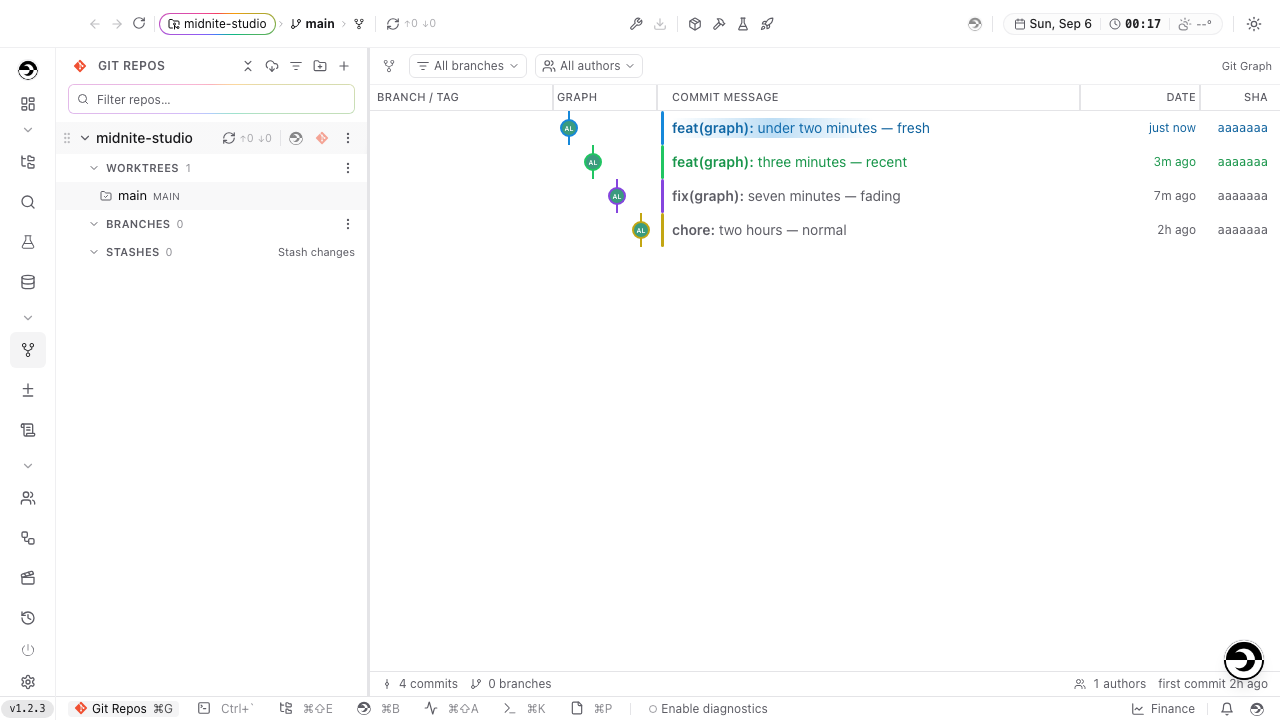
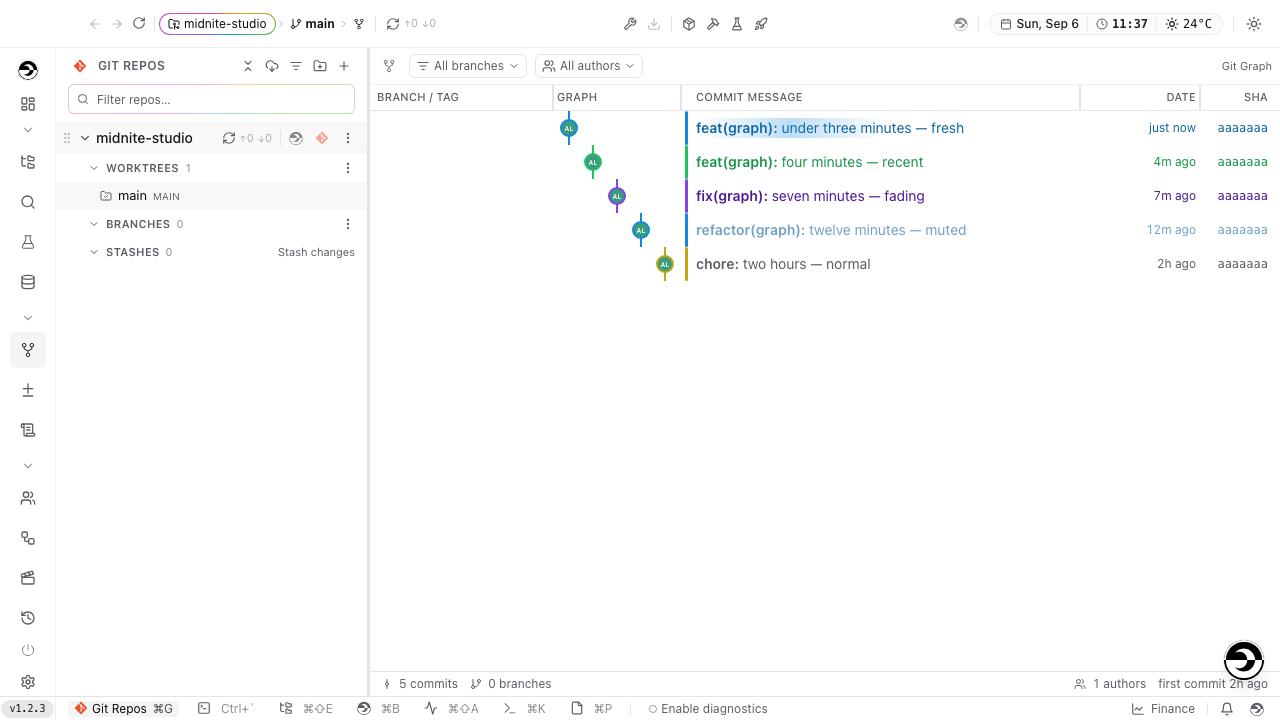
test(app): rewrite graph-recency e2e for the five-tier decay
Five tiers instead of four: adds 'muted' (10-15m), moves the first
boundary to 3 minutes, and reassigns 'muted' to share 'fresh'\'s lane
hue so the attenuation (same hue, different intensity) can be asserted
directly rather than only inferred. Updates the row-glow assertion to
match 'fading' losing that layer instead of the lane tint, and re-shoots
both screenshots for the new five-row layout.

Claude-Session: https://claude.ai/code/session_01GRCLb2AAyG95bBnkivMhDV

diff --git a/packages/app/e2e/graph-recency.spec.ts b/packages/app/e2e/graph-recency.spec.ts
@@ -4,14 +4,14 @@ import { fixtures } from './fixtures';
 import { installMockBridge, type MockFixtures } from './mock-bridge';
 
 /**
- * A commit fading out of "just landed" across four tiers.
+ * A commit fading out of "just landed" across five tiers.
  *
  * `graph-row.test.ts` pins the tier boundaries and `graph-row-highlight.test.tsx`
  * pins which classes each tier puts on the row; neither can say whether the
  * stylesheet then paints anything, because every rule here resolves
  * `--lane-h/s/l` at computed-style time and jsdom loads no stylesheet at all.
  * That is what this file is for — plus the shot at the end, which is the only
- * thing that can say the four tiers actually look different from one another.
+ * thing that can say the five tiers actually look different from one another.
  */
 const OUT = '../../docs/screenshots/adhoc-commit-recency-tiers';
 
@@ -19,28 +19,40 @@ const sha = (i: number) => `${i}`.padStart(40, 'a');
 
 /**
  * Ages chosen mid-band, not on a boundary: the ticker in `graph-view.tsx`
- * re-reads the clock every 5 seconds, so a commit parked at exactly 120s would
- * change tier partway through the run.
+ * re-reads the clock every 5 seconds, so a commit parked at exactly a
+ * boundary would change tier partway through the run.
  */
 const TIERS = [
-  { key: 'fresh', secondsAgo: 45, subject: 'feat(graph): under two minutes — fresh' },
-  { key: 'recent', secondsAgo: 210, subject: 'feat(graph): three minutes — recent' },
+  { key: 'fresh', secondsAgo: 45, subject: 'feat(graph): under three minutes — fresh' },
+  { key: 'recent', secondsAgo: 240, subject: 'feat(graph): four minutes — recent' },
   { key: 'fading', secondsAgo: 420, subject: 'fix(graph): seven minutes — fading' },
+  { key: 'muted', secondsAgo: 720, subject: 'refactor(graph): twelve minutes — muted' },
   { key: 'normal', secondsAgo: 7200, subject: 'chore: two hours — normal' },
 ] as const;
 
 /**
- * One lane per row, so each tier gets a different hue and the shot shows the
- * effect naming the branch rather than one generic "new commit" colour.
+ * Every tier gets its own lane *position*, so the shot lays them out one per
+ * row. Hue (`colorIdx`) is separate: 'muted' deliberately reuses 'fresh'\'s so
+ * a test can compare the muted tint against the same hue at full intensity —
+ * every other tier gets its own, so the effect still shows it names the
+ * branch rather than being one shared highlight colour.
  */
+const COLOR_IDX: Record<(typeof TIERS)[number]['key'], number> = {
+  fresh: 0,
+  recent: 1,
+  fading: 2,
+  muted: 0,
+  normal: 3,
+};
+
 const graphRows = () => {
   const nowSeconds = Math.floor(Date.now() / 1000);
   return TIERS.map((tier, i) => ({
     row: i,
     lane: i,
-    colorIdx: i,
+    colorIdx: COLOR_IDX[tier.key],
     laneCount: TIERS.length,
-    edges: [{ fromLane: i, toLane: i, type: 'straight', colorIdx: i }],
+    edges: [{ fromLane: i, toLane: i, type: 'straight', colorIdx: COLOR_IDX[tier.key] }],
     commit: {
       sha: sha(i),
       parents: i + 1 < TIERS.length ? [sha(i + 1)] : [],
@@ -73,26 +85,29 @@ async function openGraph(page: Page): Promise<void> {
 const rowFor = (page: Page, subject: string) =>
   page.locator('[role="row"]').filter({ hasText: subject }).first();
 
-/** A computed colour as its three numbers, so a comparison is not string-shaped. */
-const rgb = (value: string): number[] =>
-  (value.match(/[\d.]+/g) ?? []).map(Number).slice(0, 3);
+const [FRESH, RECENT, FADING, MUTED, NORMAL] = TIERS;
 
 test.describe('commit recency decay', () => {
-  test('glows the row for every tier inside the window, and no longer', async ({ page }) => {
+  test('glows the row while the row-glow layer is on, and no longer', async ({ page }) => {
     await openGraph(page);
 
-    for (const tier of TIERS) {
-      const row = rowFor(page, tier.subject);
-      const shadow = await row.evaluate((el) => getComputedStyle(el).boxShadow);
-      if (tier.key === 'normal') {
-        expect(shadow === 'none' || shadow === '').toBe(true);
-      } else {
-        expect(shadow).toContain('inset');
-      }
+    // Only 'fresh' and 'recent' carry the row/border glow now — 'fading' and
+    // 'muted' both keep the lane-coloured text pulse but lose this layer.
+    for (const tier of [FRESH, RECENT]) {
+      const shadow = await rowFor(page, tier.subject).evaluate(
+        (el) => getComputedStyle(el).boxShadow,
+      );
+      expect(shadow).toContain('inset');
+    }
+    for (const tier of [FADING, MUTED, NORMAL]) {
+      const shadow = await rowFor(page, tier.subject).evaluate(
+        (el) => getComputedStyle(el).boxShadow,
+      );
+      expect(shadow === 'none' || shadow === '').toBe(true);
     }
   });
 
-  test('tints subject, date and sha together for the first two tiers, then returns them', async ({
+  test('keeps the lane tint through fading, mutes it further, then drops it at normal', async ({
     page,
   }) => {
     await openGraph(page);
@@ -104,19 +119,26 @@ test.describe('commit recency decay', () => {
       return ink.evaluateAll((els) => els.map((el) => getComputedStyle(el).color));
     };
 
-    const normal = await inkColors(TIERS[3]!.subject);
-    // `'fading'` is the tier whose whole point is that the ink came back: it
-    // keeps the glow, so an assertion on the class alone would not catch a rule
-    // that also left the colour behind.
-    expect(await inkColors(TIERS[2]!.subject)).toEqual(normal);
+    const normal = await inkColors(NORMAL.subject);
+    const fresh = await inkColors(FRESH.subject);
+    const recent = await inkColors(RECENT.subject);
+    const fading = await inkColors(FADING.subject);
+    const muted = await inkColors(MUTED.subject);
 
-    for (const tier of [TIERS[0]!, TIERS[1]!]) {
-      const tinted = await inkColors(tier.subject);
-      // All three move together — the sha is the one most easily left behind,
-      // since it carries `font-mono` and `text-muted-foreground` of its own.
+    // Each tier tints its own subject, date and sha together (the three cells
+    // move as one), and every tier still inside the window reads as tinted
+    // rather than as `normal`'s plain ink.
+    for (const tinted of [fresh, recent, fading, muted]) {
       expect(new Set(tinted).size).toBe(1);
       expect(tinted[0]).not.toBe(normal[0]);
     }
+
+    // 'fading' is the tier the old four-step decay got wrong: it used to drop
+    // the lane tint entirely here. 'muted' shares 'fresh'\'s lane hue (see
+    // `COLOR_IDX`), so the fix — full intensity through 'fading', attenuated
+    // rather than dropped at 'muted' — shows up as one colour surviving
+    // unchanged and the other, same-hue colour coming out different.
+    expect(muted[0]).not.toBe(fresh[0]);
   });
 
   test('takes each tint from that row own lane, not one shared highlight colour', async ({
@@ -127,8 +149,9 @@ test.describe('commit recency decay', () => {
     // Lane 0 is red-led and lane 1 is emerald in the vivid palette, so two
     // tinted rows landing on the same colour would mean the rule reads
     // something other than `--lane-h`.
+    const rgb = (value: string): number[] => (value.match(/[\d.]+/g) ?? []).map(Number).slice(0, 3);
     const [fresh, recent] = await Promise.all(
-      [TIERS[0]!, TIERS[1]!].map((tier) =>
+      [FRESH, RECENT].map((tier) =>
         rowFor(page, tier.subject)
           .locator('.graph-row-ink')
           .last()
@@ -142,7 +165,7 @@ test.describe('commit recency decay', () => {
     expect(g).toBeGreaterThan(b!);
   });
 
-  test('screenshot the four tiers', async ({ page }) => {
+  test('screenshot the five tiers', async ({ page }) => {
     await openGraph(page);
     // Let the entrance fade settle, or the shot catches the graph mid-fade.
     await page.waitForTimeout(400);
@@ -158,7 +181,7 @@ test.describe('commit recency decay', () => {
     */
     await page.addStyleTag({
       content: `
-        .commit-text-pulse, .commit-row-glow {
+        .commit-text-pulse, .commit-text-pulse-muted, .commit-row-glow {
           animation-delay: -1s !important;
           animation-play-state: paused !important;
         }
